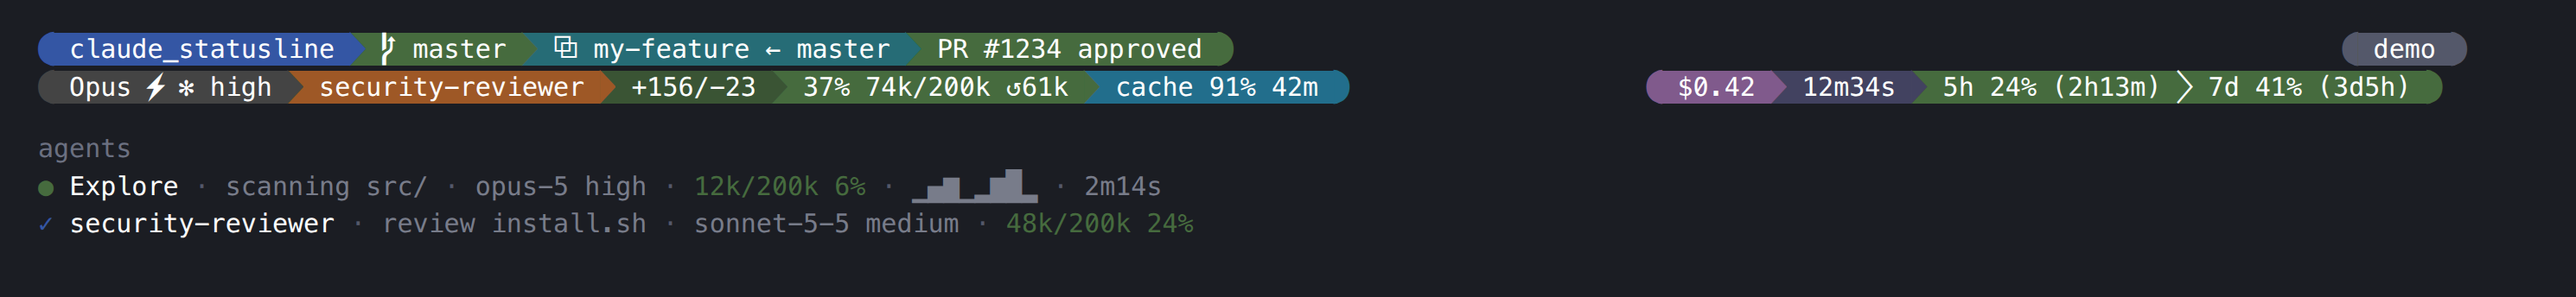
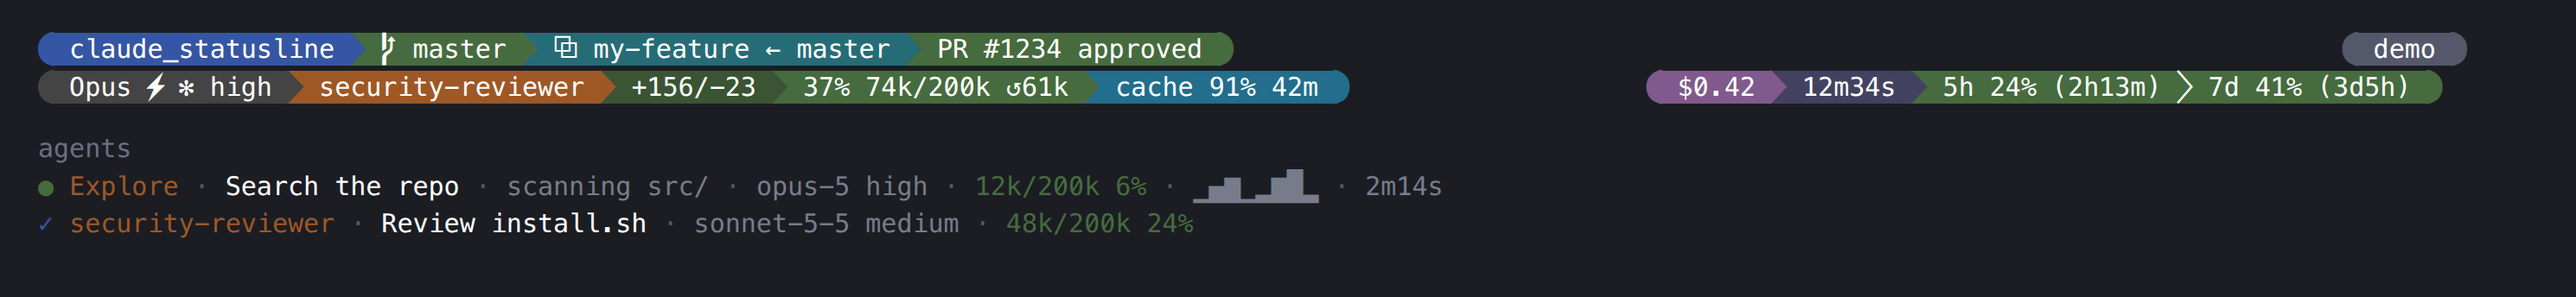
Subagent rows show the agent type, such as Explore or a custom agent, before the task description
Claude Code 2.1.318 sends each subagent task's agentType. The row leads with
it in orange, hides it for the default general-purpose type and when the name
already says it, and drops it before the title would be cut below 8 cells.
The schema snapshot and README now record 2.1.318 as checked.

Changed region(s): [[0.0312, 0.5814, 0.5617, 0.6977], [0.0312, 0.7267, 0.2497, 0.7849]]

diff --git a/src/bin/claude_subagent_statusline.rs b/src/bin/claude_subagent_statusline.rs
@@ -9,7 +9,7 @@ mod lenient;
 mod render;
 
 use render::{
-    BLUE, GREEN, RED, Rgb, SLATE, WHITE, YELLOW, fg_styled, fmt_duration_secs, fmt_tokens,
+    BLUE, GREEN, ORANGE, RED, Rgb, SLATE, WHITE, YELLOW, fg_styled, fmt_duration_secs, fmt_tokens,
     truncate, unix_now, usage_colors,
 };
 use serde::Deserialize;
@@ -20,6 +20,10 @@ const DIM: Rgb = Rgb(120, 124, 138);
 const SEPARATOR: &str = " \u{b7} ";
 /// Below this the detail column is dropped rather than truncated to noise.
 const MIN_DETAIL_WIDTH: usize = 8;
+/// Below this the title is truncated to noise, so the agent type gives way first.
+const MIN_TITLE_WIDTH: usize = 8;
+/// The type Claude Code gives a subagent spawned without one, which says nothing about it.
+const DEFAULT_AGENT_TYPE: &str = "general-purpose";
 const SPARK_BARS: [char; 8] = [
     '\u{2581}', '\u{2582}', '\u{2583}', '\u{2584}', '\u{2585}', '\u{2586}', '\u{2587}', '\u{2588}',
 ];
@@ -42,6 +46,9 @@ struct Task {
     id: String,
     #[serde(default, deserialize_with = "lenient::option")]
     name: Option<String>,
+    /// Subagent type, such as `Explore` or a custom agent's name (Claude Code v2.1.318+).
+    #[serde(default, deserialize_with = "lenient::option")]
+    agent_type: Option<String>,
     #[serde(default, deserialize_with = "lenient::option")]
     status: Option<String>,
     #[serde(default, deserialize_with = "lenient::option")]
@@ -156,16 +163,31 @@ fn insert_if_fits(
 fn render_row(task: &Task, columns: Option<usize>, now: u64) -> String {
     let (marker, marker_color) = status_marker(task.status.as_deref());
 
+    let mut agent_type = task
+        .agent_type
+        .as_ref()
+        .filter(|kind| !kind.is_empty() && *kind != DEFAULT_AGENT_TYPE);
+
     // Claude Code names only the subagents spawned with a name, so most are told
-    // apart by the description of their task
-    let title = [&task.name, &task.description]
+    // apart by the description of their task, and the type titles a row with neither
+    let title = match [&task.name, &task.description]
         .into_iter()
         .flatten()
         .find(|text| !text.is_empty())
-        .map_or("task", String::as_str);
+    {
+        Some(title) => title.as_str(),
+        None => agent_type.take().map_or("task", String::as_str),
+    };
+    let agent_type = agent_type.filter(|kind| *kind != title);
 
-    // Fixed columns, in display order
-    let mut parts: Vec<(String, Rgb)> = vec![(title.to_string(), WHITE)];
+    // Fixed columns, in display order. The type leads, as in the transcript's
+    // `Explore(Search the repo)`.
+    let mut parts: Vec<(String, Rgb)> = Vec::new();
+    if let Some(kind) = agent_type {
+        parts.push((kind.clone(), ORANGE));
+    }
+    let mut title_index = parts.len();
+    parts.push((title.to_string(), WHITE));
 
     let mut model_text = task.model.as_deref().map(short_model).unwrap_or_default();
     if let Some(effort) = &task.effort {
@@ -191,11 +213,20 @@ fn render_row(task: &Task, columns: Option<usize>, now: u64) -> String {
         parts.push((text, color));
     }
 
-    // A long title gives way before the model and context do
+    // A long title gives way before the model and context do, and the type before
+    // the title is cut below a readable width
     if let Some(columns) = columns {
-        let overflow = row_width(marker, &parts).saturating_sub(columns);
+        let mut overflow = row_width(marker, &parts).saturating_sub(columns);
+        if title_index > 0
+            && overflow > 0
+            && title.width().saturating_sub(overflow) < MIN_TITLE_WIDTH
+        {
+            parts.remove(0);
+            title_index = 0;
+            overflow = row_width(marker, &parts).saturating_sub(columns);
+        }
         if overflow > 0 {
-            parts[0].0 = truncate(title, title.width().saturating_sub(overflow));
+            parts[title_index].0 = truncate(title, title.width().saturating_sub(overflow));
         }
     }
 
@@ -235,7 +266,7 @@ fn render_row(task: &Task, columns: Option<usize>, now: u64) -> String {
 
         if budget >= MIN_DETAIL_WIDTH {
             // Detail sits right after the name
-            parts.insert(1, (truncate(&detail, budget), DIM));
+            parts.insert(title_index + 1, (truncate(&detail, budget), DIM));
         }
     }
 
@@ -354,6 +385,77 @@ mod tests {
         );
         let untitled = row(json!({ "description": "", "label": null }));
         assert!(untitled.starts_with("\u{25cf} task \u{b7}"), "{untitled}");
+    }
+
+    /// An unnamed `Explore` subagent, as Claude Code v2.1.318+ sends it.
+    fn typed(fields: &serde_json::Value) -> serde_json::Value {
+        let mut task = explore();
+        let object = task.as_object_mut().expect("task is an object");
+        object.remove("name");
+        object.insert("agentType".into(), json!("Explore"));
+        object.insert("description".into(), json!("Search the repo"));
+        object.extend(fields.as_object().expect("fields are an object").clone());
+        task
+    }
+
+    fn typed_row(fields: &serde_json::Value, columns: Option<usize>) -> String {
+        let input = parse(&json!({ "tasks": [typed(fields)] }));
+        strip_ansi(&render_row(&input.tasks[0], columns, NOW))
+    }
+
+    #[test]
+    fn the_agent_type_leads_the_row() {
+        assert_eq!(
+            typed_row(&json!({}), None),
+            "\u{25cf} Explore \u{b7} Search the repo \u{b7} scanning src/ \u{b7} opus-5 high \u{b7} 12k/200k 6% \u{b7} \u{2581}\u{2585}\u{2588}\u{2581}\u{2582} \u{b7} 2m14s"
+        );
+        let named = typed_row(
+            &json!({ "agentType": "security-reviewer", "name": "reviewer-1" }),
+            None,
+        );
+        assert!(
+            named.starts_with("\u{25cf} security-reviewer \u{b7} reviewer-1 \u{b7} scanning src/"),
+            "{named}"
+        );
+    }
+
+    #[test]
+    fn the_agent_type_is_hidden_when_it_says_nothing_new() {
+        let row = |fields: serde_json::Value| typed_row(&fields, None);
+        let starts = |row: &str, start: &str| assert!(row.starts_with(start), "{row}");
+
+        // The default type, given to every subagent spawned without one
+        let default = row(json!({ "agentType": "general-purpose" }));
+        starts(&default, "\u{25cf} Search the repo \u{b7} scanning src/");
+        // Already the name
+        let same = row(json!({ "name": "Explore" }));
+        starts(&same, "\u{25cf} Explore \u{b7} scanning src/");
+        for missing in [json!(""), json!(null), json!(42)] {
+            let row = row(json!({ "agentType": missing }));
+            starts(&row, "\u{25cf} Search the repo \u{b7} scanning src/");
+        }
+        // With no name or description, the type titles the row once
+        let untitled = row(json!({ "description": null, "label": null }));
+        starts(&untitled, "\u{25cf} Explore \u{b7} opus-5 high");
+    }
+
+    #[test]
+    fn the_agent_type_gives_way_before_the_title_is_cut_short() {
+        let audit = json!({ "description": "Audit every dependency for known vulnerabilities" });
+
+        let row = typed_row(&audit, Some(60));
+        assert_eq!(
+            row,
+            "\u{25cf} Explore \u{b7} Audit every depende\u{2026} \u{b7} opus-5 high \u{b7} 12k/200k 6%"
+        );
+        assert_eq!(row.width(), 60);
+
+        let row = typed_row(&audit, Some(40));
+        assert_eq!(
+            row,
+            "\u{25cf} Audit eve\u{2026} \u{b7} opus-5 high \u{b7} 12k/200k 6%"
+        );
+        assert_eq!(row.width(), 40);
     }
 
     #[test]

diff --git a/docs/screenshot.py b/docs/screenshot.py
@@ -41,11 +41,13 @@ session = {
     "worktree": {"name": "my-feature", "original_branch": "master"},
 }
 tasks = {"columns": columns, "tasks": [
-    {"id": "t1", "name": "Explore", "status": "running", "label": "scanning src/",
+    {"id": "t1", "agentType": "Explore", "description": "Search the repo",
+     "status": "running", "label": "scanning src/",
      "model": "claude-opus-5", "effort": "high", "contextWindowSize": 200000,
      "tokenCount": 12500, "startTime": (now - 134) * 1000,
      "tokenSamples": [0, 0, 500, 1500, 1500, 1600, 2600, 4100, 4300]},
-    {"id": "t2", "name": "security-reviewer", "status": "completed", "label": "review install.sh",
+    {"id": "t2", "agentType": "security-reviewer", "description": "Review install.sh",
+     "status": "completed", "label": "Review install.sh",
      "model": "claude-sonnet-5-5", "effort": "medium", "contextWindowSize": 200000,
      "tokenCount": 48200},
 ]}

diff --git a/README.md b/README.md
@@ -56,8 +56,8 @@ Threshold colors for context and rate limits:
 prompt:
 
 ```
-● Explore · scanning src/ · opus-5 high · 12k/200k 6% · ▁▄▆▁▂▆█▂ · 2m14s
-✓ security-reviewer · review install.sh · sonnet-5-5 medium · 48k/200k 24%
+● Explore · Search the repo · scanning src/ · opus-5 high · 12k/200k 6% · ▁▄▆▁▂▆█▂ · 2m14s
+✓ security-reviewer · Review install.sh · sonnet-5-5 medium · 48k/200k 24%
 ```
 
 Each table entry is one column of the first row, listed left to right. Columns are separated by
@@ -66,7 +66,8 @@ Each table entry is one column of the first row, listed left to right. Columns a
 | Column | Example | Color | Description |
 |--------|---------|-------|-------------|
 | Status | `●` | State-colored | Green `●` running, yellow `○` pending, blue `✓` completed, red `✗` failed or killed, slate `●` anything else, such as paused |
-| Name | `Explore` | White | Name the subagent was spawned with. Most subagents have none and show their task description instead, such as `Search the repo` |
+| Type | `Explore` | Orange | Subagent type: a built-in such as `Explore` or `Plan`, or a custom agent's name. Hidden for `general-purpose`, the type of a subagent spawned without one, and when the name already says it |
+| Name | `Search the repo` | White | Name the subagent was spawned with. Most subagents have none and show their task description instead, or their type when they have no description either |
 | Detail | `scanning src/` | Dim | What the subagent is doing now, or its task description when the name doesn't already show it. Truncated with `…` to the room left, and dropped when less than 8 cells remain |
 | Model | `opus-5 high` | Dim | Model ID without the `claude-` prefix and date suffix, then the effort set for that subagent: a level, or a token budget such as `16k` |
 | Context | `12k/200k 6%` | Green / Yellow / Red | Tokens in the subagent's context out of its model's window, and the share used, with the same thresholds as the main context. Only the token count, dimmed, when the window size is unknown. Hidden until the subagent reports tokens |
@@ -74,9 +75,9 @@ Each table entry is one column of the first row, listed left to right. Columns a
 | Running time | `2m14s` | Dim | **Running only.** How long the subagent has been running. A finished subagent doesn't report when it ended, so it gets neither this column nor the activity |
 
 A row never wraps. Claude Code reports the width left for the row body, and the name, model and
-context always show, the name truncated if they wouldn't fit otherwise. Running time, then
-activity, are added only if they fit while leaving 8 cells for the detail, which then fills
-whatever is left.
+context always show, the name truncated if they wouldn't fit otherwise. The type shows too, unless
+the name would be cut below 8 cells to make room for it. Running time, then activity, are added
+only if they fit while leaving 8 cells for the detail, which then fills whatever is left.
 
 ### Right alignment
 
@@ -352,7 +353,7 @@ is what the activity sparkline measures.
 
 ## Input format
 
-Both schemas below were last checked against Claude Code **v2.1.291**. Newer releases add fields
+Both schemas below were last checked against Claude Code **v2.1.318**. Newer releases add fields
 the renderer ignores, and a field whose type changes hides its section instead of breaking the line.
 
 To see what a newer Claude Code changed, run `python3 docs/check_schema.py`. It reads both payloads
@@ -432,7 +433,7 @@ Every field is optional except `id`:
   "columns": 80,
   "tasks": [
     {
-      "id": "t1", "name": "Explore", "type": "local_agent", "status": "running",
+      "id": "t1", "type": "local_agent", "agentType": "Explore", "status": "running",
       "label": "scanning src/", "description": "Search the repo",
       "model": "claude-opus-5", "effort": "high", "contextWindowSize": 200000,
       "tokenCount": 12500, "startTime": 1738425466000,
@@ -451,6 +452,9 @@ Notes on availability:
 - `columns` is the width left for the row body once Claude Code has drawn its own indent
 - `name` is set only for a subagent given a name when it was spawned, so that other agents can
   message it. The others are titled by their `description`
+- `agentType` is the subagent type: a built-in such as `Explore` or `Plan`, a custom agent's name,
+  `general-purpose` when none was chosen, or `main-session` for a backgrounded main session. It is
+  set only on `local_agent` tasks. v2.1.318 sends it; v2.1.314 doesn't
 - `status` is `pending`, `running`, `completed`, `failed`, `killed` or `paused`
 - `label` is what the subagent reports doing now, and falls back to `description`
 - `tokenCount` is `0` until the subagent reports progress. `tokenSamples` holds its value at each of
